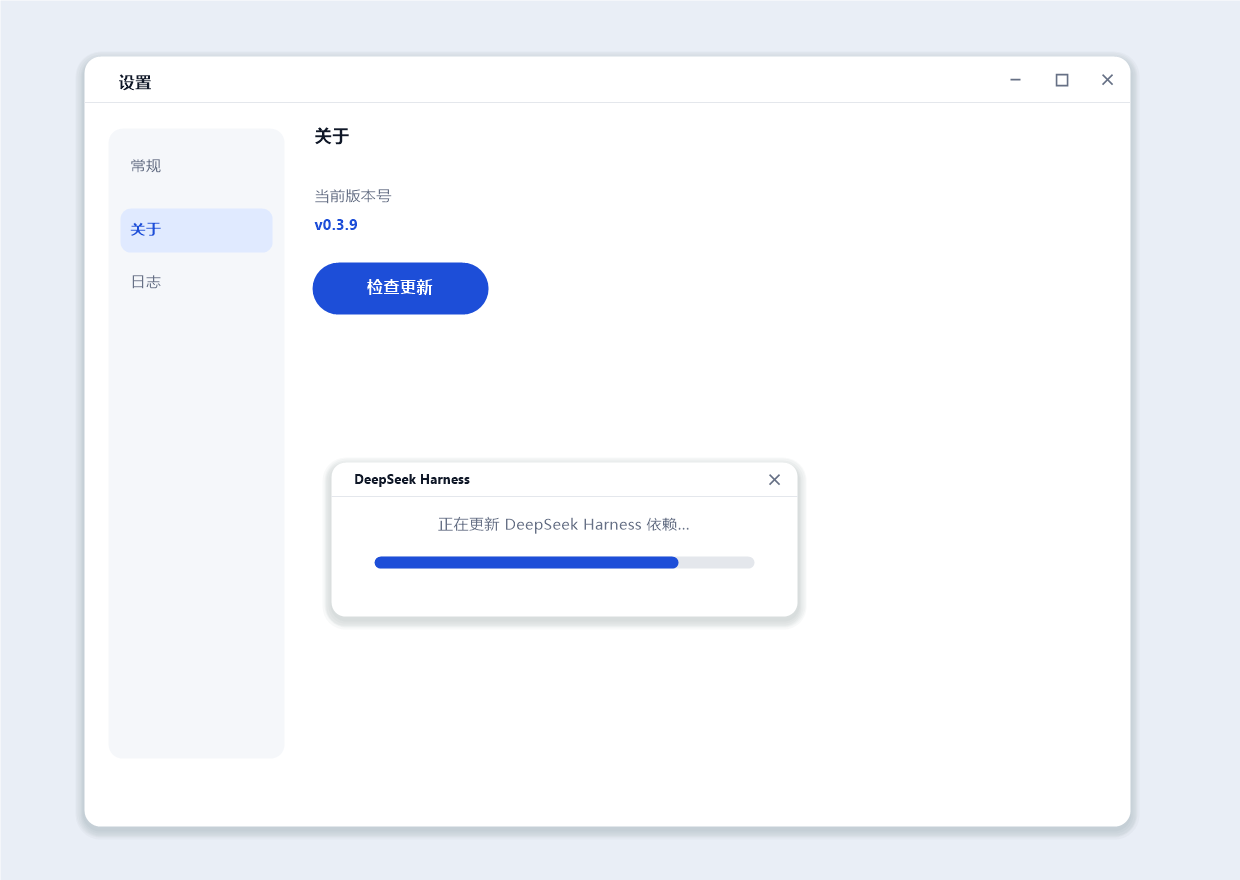
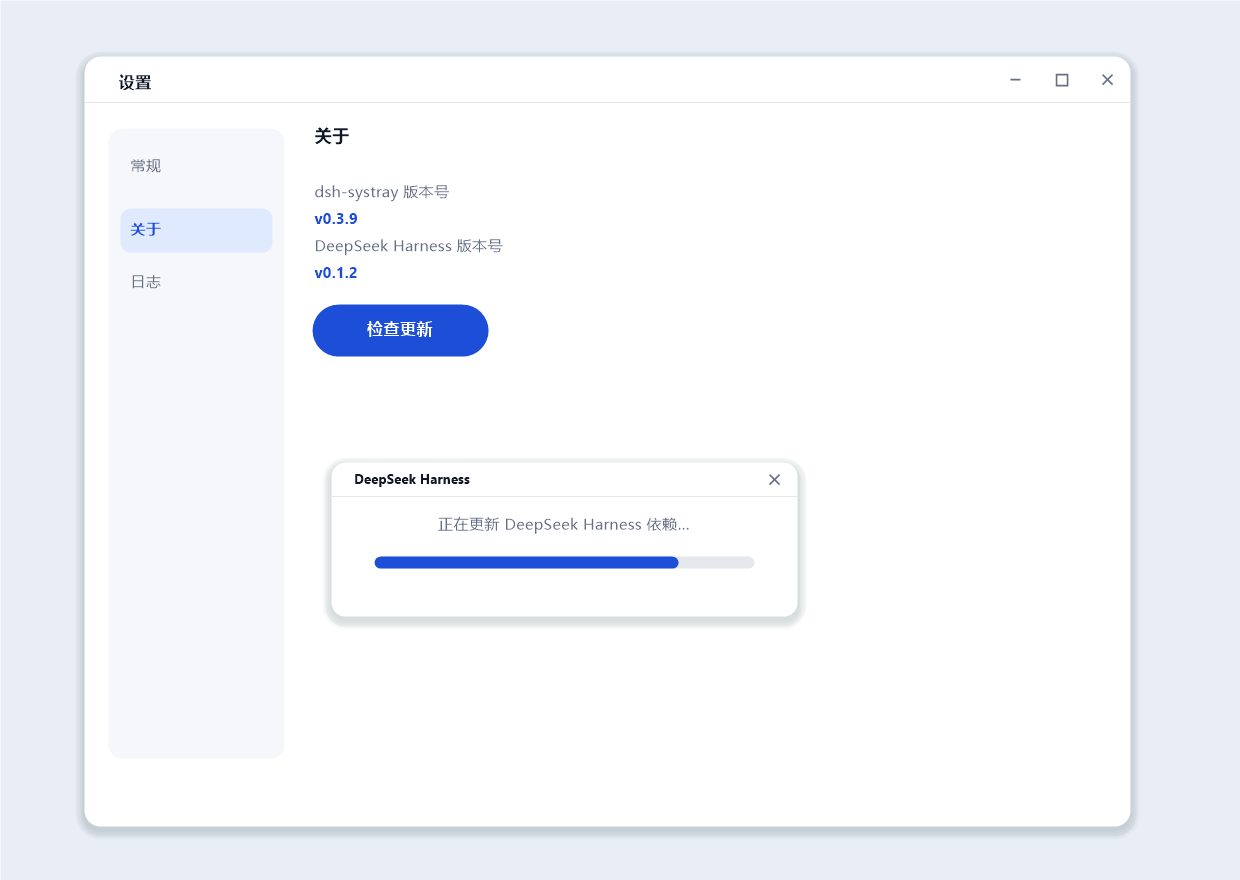
feat(settings): 关于面板显示 DeepSeek Harness 版本号（Windows/macOS 同步），dsh-systray 版本号改名
- Windows: 关于面板新增 'DeepSeek Harness 版本号' 行（installedHarnessVersion），'当前版本号' 改 'dsh-systray 版本号'
- macOS: dsh_settings_open 传入 harness 版本，Cocoa 关于面板同步新增
- screenshot.png: 关于面板加入 harness 版本展示

Changed region(s): [[0.2452, 0.2148, 0.3984, 0.4295]]

diff --git a/settings_darwin.m b/settings_darwin.m
@@ -112,7 +112,7 @@ static DSHSetController *g_ctrl = nil;
     [self refreshLog];
 }
 
-- (void)buildWindowWithVersion:(const char *)ver autostart:(int)autoOn {
+- (void)buildWindowWithVersion:(const char *)ver harness:(const char *)hver autostart:(int)autoOn {
     NSRect contentRect = NSMakeRect(0, 0, 560, 360);
     self.window = [[NSWindow alloc] initWithContentRect:contentRect
                                               styleMask:(NSWindowStyleMaskTitled | NSWindowStyleMaskClosable)
@@ -157,17 +157,23 @@ static DSHSetController *g_ctrl = nil;
     self.autoSwitch.action = @selector(autostartChanged:);
     [self.generalPane addSubview:self.autoSwitch];
 
-    // 关于面板：版本号 + 检查更新
+    // 关于面板：dsh-systray 版本号 + DeepSeek Harness 版本号 + 检查更新
     self.aboutPane = [[NSView alloc] initWithFrame:NSMakeRect(160, 0, 400, 360)];
     [self addLabel:@"关于" font:[NSFont systemFontOfSize:16 weight:NSFontWeightSemibold] color:nil frame:NSMakeRect(0, 316, 300, 24) to:self.aboutPane];
-    [self addLabel:@"当前版本号" font:[NSFont systemFontOfSize:14] color:nil frame:NSMakeRect(0, 270, 200, 22) to:self.aboutPane];
+    [self addLabel:@"dsh-systray 版本号" font:[NSFont systemFontOfSize:14] color:nil frame:NSMakeRect(0, 270, 220, 22) to:self.aboutPane];
     [self addLabel:[NSString stringWithFormat:@"%s", ver]
                font:[NSFont systemFontOfSize:16 weight:NSFontWeightSemibold]
               color:[NSColor colorWithCalibratedRed:0.114 green:0.306 blue:0.847 alpha:1.0]
               frame:NSMakeRect(0, 244, 220, 24)
                   to:self.aboutPane];
+    [self addLabel:@"DeepSeek Harness 版本号" font:[NSFont systemFontOfSize:14] color:nil frame:NSMakeRect(0, 214, 240, 20) to:self.aboutPane];
+    [self addLabel:[NSString stringWithFormat:@"%s", hver]
+               font:[NSFont systemFontOfSize:16 weight:NSFontWeightSemibold]
+              color:[NSColor colorWithCalibratedRed:0.114 green:0.306 blue:0.847 alpha:1.0]
+              frame:NSMakeRect(0, 190, 220, 24)
+                  to:self.aboutPane];
 
-    NSButton *checkBtn = [[NSButton alloc] initWithFrame:NSMakeRect(0, 196, 120, 32)];
+    NSButton *checkBtn = [[NSButton alloc] initWithFrame:NSMakeRect(0, 146, 120, 32)];
     checkBtn.title = @"检查更新";
     checkBtn.bezelStyle = NSBezelStyleRounded;
     checkBtn.target = self;
@@ -207,9 +213,9 @@ static DSHSetController *g_ctrl = nil;
     [self.catTable selectRowIndexes:[NSIndexSet indexSetWithIndex:0] byExtendingSelection:NO];
 }
 
-- (void)showWithVersion:(const char *)ver autostart:(int)autoOn {
+- (void)showWithVersion:(const char *)ver harness:(const char *)hver autostart:(int)autoOn {
     if (self.window == nil) {
-        [self buildWindowWithVersion:ver autostart:autoOn];
+        [self buildWindowWithVersion:ver harness:hver autostart:autoOn];
     }
     self.autoSwitch.state = (autoOn ? NSControlStateValueOn : NSControlStateValueOff);
     [self.window makeKeyAndOrderFront:nil];
@@ -219,14 +225,16 @@ static DSHSetController *g_ctrl = nil;
 @end
 
 // dsh_settings_open 在 AppKit 主线程创建/前置设置窗口（Go 侧调用，可来自任意 goroutine）。
-// version 为 Go 侧 C 字符串，调用返回后即被释放，因此此处同步 strdup 拷贝一份供异步块使用。
-void dsh_settings_open(const char *version, int autostartOn) {
+// version/harnessVersion 为 Go 侧 C 字符串，调用返回后即被释放，因此此处同步 strdup 拷贝一份供异步块使用。
+void dsh_settings_open(const char *version, const char *harnessVersion, int autostartOn) {
     char *verCopy = strdup(version);
+    char *hverCopy = strdup(harnessVersion);
     dispatch_async(dispatch_get_main_queue(), ^{
         if (g_ctrl == nil) {
             g_ctrl = [[DSHSetController alloc] init];
         }
-        [g_ctrl showWithVersion:verCopy autostart:autostartOn];
+        [g_ctrl showWithVersion:verCopy harness:hverCopy autostart:autostartOn];
         free(verCopy);
+        free(hverCopy);
     });
 }

diff --git a/settings_windows.go b/settings_windows.go
@@ -43,6 +43,8 @@ const (
 	stIdVerTitle   = 3201
 	stIdVerValue   = 3202
 	stIdCheckBtn   = 3203
+	stIdHarTitle   = 3204
+	stIdHarValue   = 3205
 	stIdLogInfo    = 3300
 	stIdLogCombo   = 3301
 	stIdLogRefresh = 3302
@@ -200,9 +202,9 @@ func settingsWndProc(hwnd, uMsg, wParam, lParam uintptr) uintptr {
 	case wmCtlColorStatic:
 		h := settingsWidgets[lParam]
 		switch h {
-		case stIdPaneTitle, stIdAutoTitle, stIdVerTitle:
+		case stIdPaneTitle, stIdAutoTitle, stIdVerTitle, stIdHarTitle:
 			pSetTextColor.Call(wParam, stColorText)
-		case stIdVerValue:
+		case stIdVerValue, stIdHarValue:
 			pSetTextColor.Call(wParam, stColorBlue)
 		case stIdAutoSub, stIdLogInfo:
 			pSetTextColor.Call(wParam, stColorSub)
@@ -619,13 +621,13 @@ func createSettingsWindow() uintptr {
 	}
 
 	// ---- 关于面板 ----
-	vt, _ := syscall.UTF16PtrFromString("当前版本号")
+	vt, _ := syscall.UTF16PtrFromString("dsh-systray 版本号")
 	verTitle, _, _ := pCreateWindowExW.Call(
 		0,
 		uintptr(unsafe.Pointer(staticCls)),
 		uintptr(unsafe.Pointer(vt)),
 		wsChild|wsVisible,
-		uintptr(stContentX), 78, 180, 24,
+		uintptr(stContentX), 78, 220, 24,
 		hwnd, stIdVerTitle, moduleHandle(), 0,
 	)
 	if verTitle != 0 {
@@ -648,6 +650,39 @@ func createSettingsWindow() uintptr {
 		pSendMessageW.Call(verValue, wmSetFont, settingsFontTitle, 1)
 		settingsPaneAbout = append(settingsPaneAbout, stIdVerValue)
 	}
+	// DeepSeek Harness 版本号
+	hvText := withV(installedHarnessVersion())
+	if hvText == "" {
+		hvText = "未检测到"
+	}
+	ht, _ := syscall.UTF16PtrFromString("DeepSeek Harness 版本号")
+	harTitle, _, _ := pCreateWindowExW.Call(
+		0,
+		uintptr(unsafe.Pointer(staticCls)),
+		uintptr(unsafe.Pointer(ht)),
+		wsChild|wsVisible,
+		uintptr(stContentX), 140, 240, 22,
+		hwnd, stIdHarTitle, moduleHandle(), 0,
+	)
+	if harTitle != 0 {
+		settingsWidgets[harTitle] = stIdHarTitle
+		pSendMessageW.Call(harTitle, wmSetFont, settingsFontBody, 1)
+		settingsPaneAbout = append(settingsPaneAbout, stIdHarTitle)
+	}
+	fv, _ := syscall.UTF16PtrFromString(hvText)
+	harValue, _, _ := pCreateWindowExW.Call(
+		0,
+		uintptr(unsafe.Pointer(staticCls)),
+		uintptr(unsafe.Pointer(fv)),
+		wsChild|wsVisible,
+		uintptr(stContentX), 162, 220, 26,
+		hwnd, stIdHarValue, moduleHandle(), 0,
+	)
+	if harValue != 0 {
+		settingsWidgets[harValue] = stIdHarValue
+		pSendMessageW.Call(harValue, wmSetFont, settingsFontTitle, 1)
+		settingsPaneAbout = append(settingsPaneAbout, stIdHarValue)
+	}
 	// 检查更新（自绘胶囊）
 	cb2, _ := syscall.UTF16PtrFromString("检查更新")
 	checkBtn, _, _ := pCreateWindowExW.Call(
@@ -655,7 +690,7 @@ func createSettingsWindow() uintptr {
 		uintptr(unsafe.Pointer(btnCls)),
 		uintptr(unsafe.Pointer(cb2)),
 		wsChild|wsVisible|wsTabStop|bsOwnDraw,
-		uintptr(stContentX), 148, 130, 34,
+		uintptr(stContentX), 200, 130, 34,
 		hwnd, stIdCheckBtn, moduleHandle(), 0,
 	)
 	if checkBtn != 0 {

diff --git a/settings_darwin.go b/settings_darwin.go
@@ -7,7 +7,7 @@ package main
 #cgo darwin LDFLAGS: -framework Cocoa
 #include <stdlib.h>
 // 原生设置窗口入口（settings_darwin.m 实现，窗口创建于主线程）
-void dsh_settings_open(const char* version, int autostartOn);
+void dsh_settings_open(const char* version, const char* harnessVersion, int autostartOn);
 // 读取日志文本（which=0 app.log / 1 server.log），返回 malloc 的 C 字符串（调用方 free）
 char* dshSettingsGoLoadLog(int which);
 */
@@ -67,9 +67,15 @@ func dshSettingsGoClearLog(which C.int) {
 func openSettingsWindow() {
 	cs := C.CString(withV(appVersion))
 	defer C.free(unsafe.Pointer(cs))
+	hv := withV(installedHarnessVersion())
+	if hv == "" {
+		hv = "未检测到"
+	}
+	hcs := C.CString(hv)
+	defer C.free(unsafe.Pointer(hcs))
 	auto := 0
 	if isAutostartEnabled() {
 		auto = 1
 	}
-	C.dsh_settings_open(cs, C.int(auto))
+	C.dsh_settings_open(cs, hcs, C.int(auto))
 }
